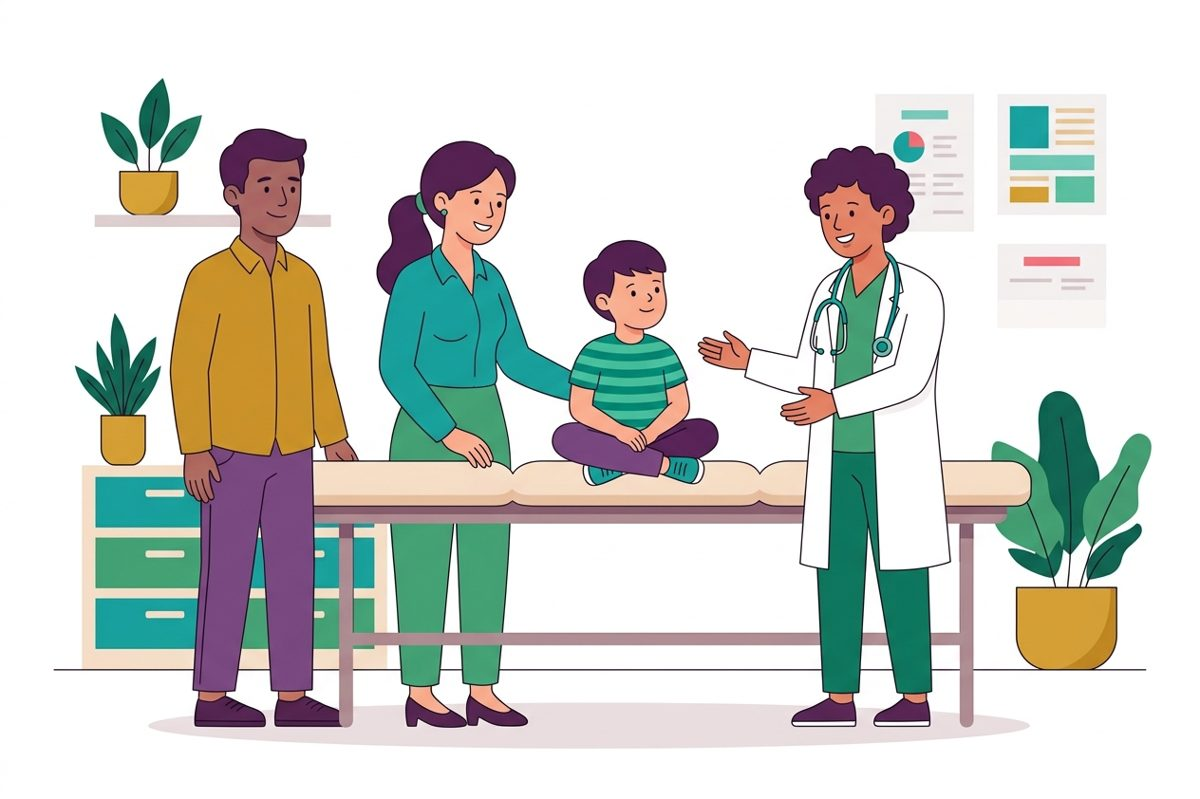
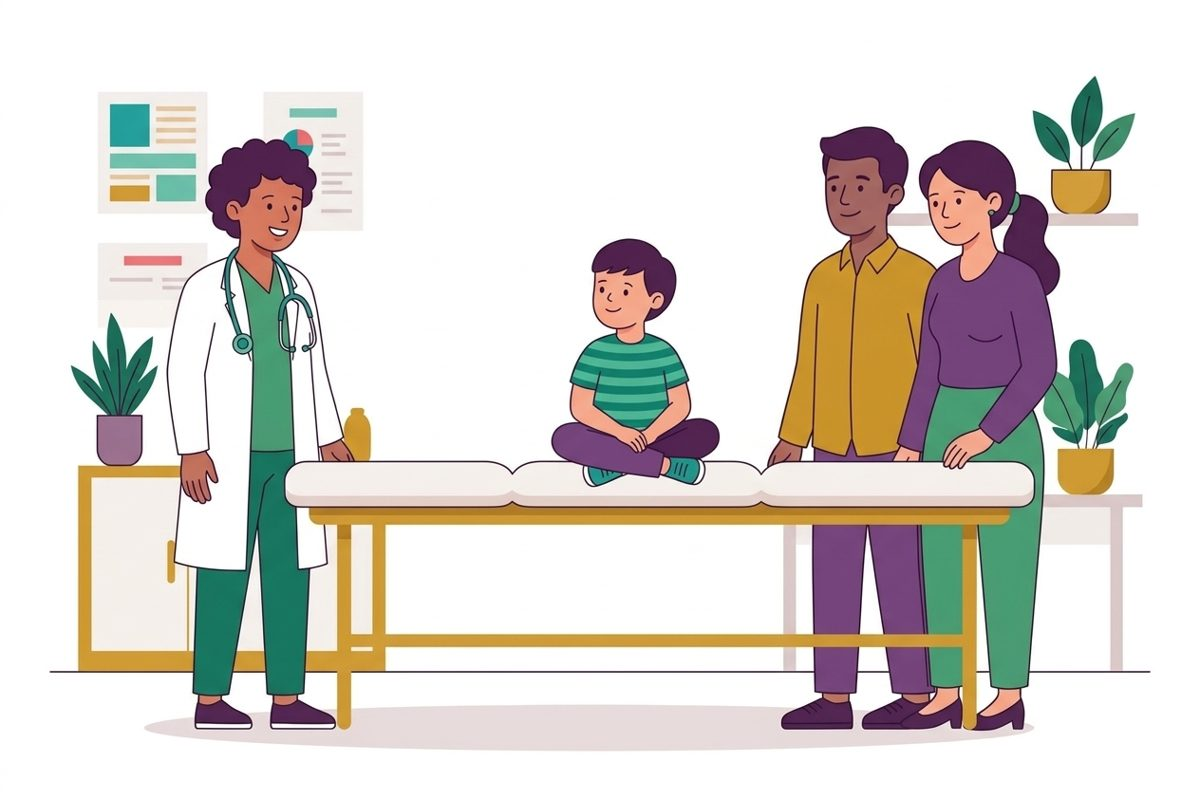
## Doctor Scene Updated
- I have regenerated the "At the doctor" illustration where both parents are positioned together on the right side of the exam table, facing the doctor on the left, with the child in the centre. The character design and brand palette remain consistent; the image has been replaced on the landing strip. You might need to perform a hard refresh to see the updated file.

- This is the initial update based on the identified issue. Please republish and test the changes to confirm if everything works as expected. If further adjustments are needed, I’m ready to continue investigating and refining the scene.

- Next Action Items:
  - **Real Photo Swap**: Attach your graduation, school, doctor and certificate photos and I'll replace the generated scenes with them
  - **Freshness History**: Show admins a log of past freshness checks per provider with what changed and when it was applied
  - **Urgent SMS Option**: Let judges add a mobile number so urgent-safety alerts also arrive by text message
  - **Guide Voice Settings**: Let professionals and judges pick their preferred reading voice and speed for workflow guides too

Emergent-Commit-Key: 34be58a90cf69b69a3b68b04221f648f0726fc7089c3b30dfcc264d4c7e5671d

diff --git a/memory/gen_doctor_v2.py b/memory/gen_doctor_v2.py
@@ -1,0 +1,24 @@
+import asyncio, os, base64
+from dotenv import load_dotenv
+load_dotenv("/app/backend/.env")
+from emergentintegrations.llm.chat import LlmChat, UserMessage, ImageContent
+from PIL import Image
+
+STYLE = ("Flat vector illustration, clean modern style, soft white background, brand palette of deep purple #5B2A86, teal #1f8a8a, warm gold accents and gentle greens. "
+         "Faces simple and friendly, no text, no logos, landscape 3:2 composition. Keep the same character design (a man in a mustard shirt and a woman in a purple top) as the reference image.")
+SCENE = ("Pediatric check-up: the child sits on the exam table in the CENTER. The friendly doctor with a stethoscope stands on the LEFT side of the table. BOTH parents stand together "
+         "on the RIGHT side of the table, opposite the doctor, side by side, listening attentively — the parents are clearly on the same side, facing the doctor across the table.")
+
+
+async def main():
+    ref = base64.b64encode(open("/app/frontend/public/moment-doctor.jpg", "rb").read()).decode()
+    chat = LlmChat(api_key=os.getenv("EMERGENT_LLM_KEY"), session_id="scene-doctor-v2", system_message="You are an illustrator.").with_model("gemini", "gemini-3.1-flash-image-preview").with_params(modalities=["image", "text"])
+    _, images = await chat.send_message_multimodal_response(UserMessage(text=f"Redraw this scene. {SCENE} {STYLE}", file_contents=[ImageContent(ref)]))
+    assert images, "no image"
+    open("/app/memory/moment-doctor-v2.png", "wb").write(base64.b64decode(images[0]["data"]))
+    im = Image.open("/app/memory/moment-doctor-v2.png").convert("RGB"); w, h = im.size; th = int(w * 2 / 3)
+    if h > th:
+        im = im.crop((0, (h - th) // 2, w, (h + th) // 2))
+    im.thumbnail((1200, 800)); im.save("/app/frontend/public/moment-doctor.jpg", quality=82); print("saved", im.size)
+
+asyncio.run(main())

diff --git a/memory/PRD.md b/memory/PRD.md
@@ -725,3 +725,4 @@ Probed 2026-09-02: /api/link-codes, /api/integrations/* on sacoparentsapp.online
 - 2026-09-26 (iter 71) — **Agreement badge artwork**: generated with Gemini Nano Banana (gemini-3.1-flash-image-preview, style-matched to user's uniform badge; script memory/gen_badge_agreement.py) → `/badge-agreement.png`; all three hub circles now use artwork. **Weekly provider freshness**: platform cap is 5 crons (already used) → folded into existing Monday 8am Central `weekly-summary` cron: `research.run_provider_freshness` re-verifies active providers stale >90 days via `verify_provider_record` (shared with the admin button) and emails admins (ADMIN_EMAIL + role=admin users) ONLY when a found phone/website differs (or a lookup failed); nothing auto-applied. Verified: direct run → 4 checked, emails composed to 2 admins; cron endpoint 200 with secret / 401 without.
 - 2026-09-26 (iter 72) — **Urgent Email Alert**: `Threads.notify` sends an immediate "URGENT — safety concern raised - Cause No. …" email (red banner, kind `court_urgent_safety`) to the judge when a professional message is Jev-triaged urgent_safety; message stores `urgent_alert_sent_at` (shown as "judge emailed immediately" in CourtThread). Standard messages keep the normal notice. Test tests/test_iter72_urgent_email.py. **Parent Listen Mode**: "Read my statement aloud" panel (TTS over all filled Foundation sections, `foundation-listen-all`) above the Save button on /foundation; mobile-checked, no overflow.
 - 2026-09-26 (iter 73) — **Moments that matter strip** on landing (`components/MomentsStrip.jsx`, `moments-section`, 4 cards: school, doctor, graduation, certificate) using Nano Banana-generated flat-vector scenes (`/moment-*.jpg`, script memory/gen_scene_images.py) because the user's original photos were never attached to this project. **Statement Voice Choice**: ListenButton accepts `voice` + `rate` (playbackRate); Foundation listen panel has Voice (Calm/Warm/Bright/Steady = sage/coral/nova/echo) and Speed (0.8/1/1.2×) selects persisted in localStorage (`foundation-voice-select`, `foundation-speed-select`), applied to all per-step Listen buttons too.
+- 2026-09-26: doctor scene regenerated (parents together on the right, doctor on the left; memory/gen_doctor_v2.py)
